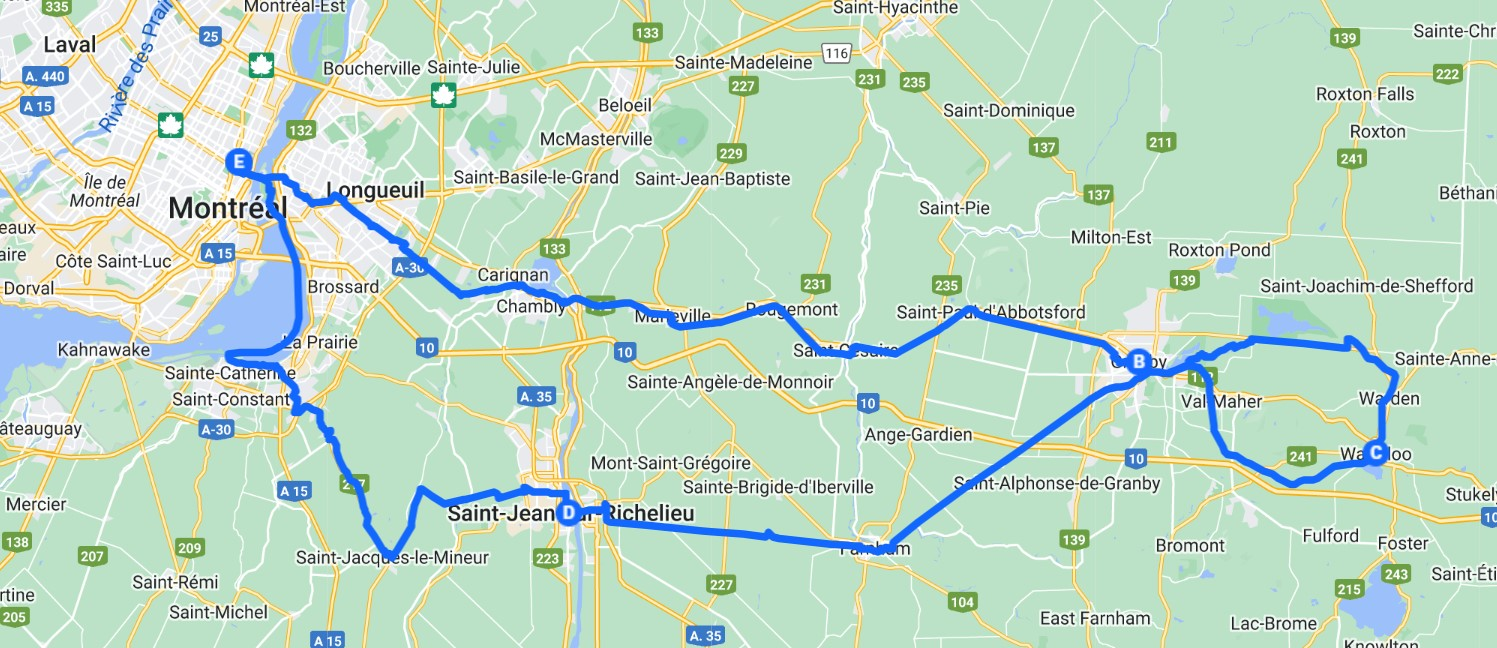
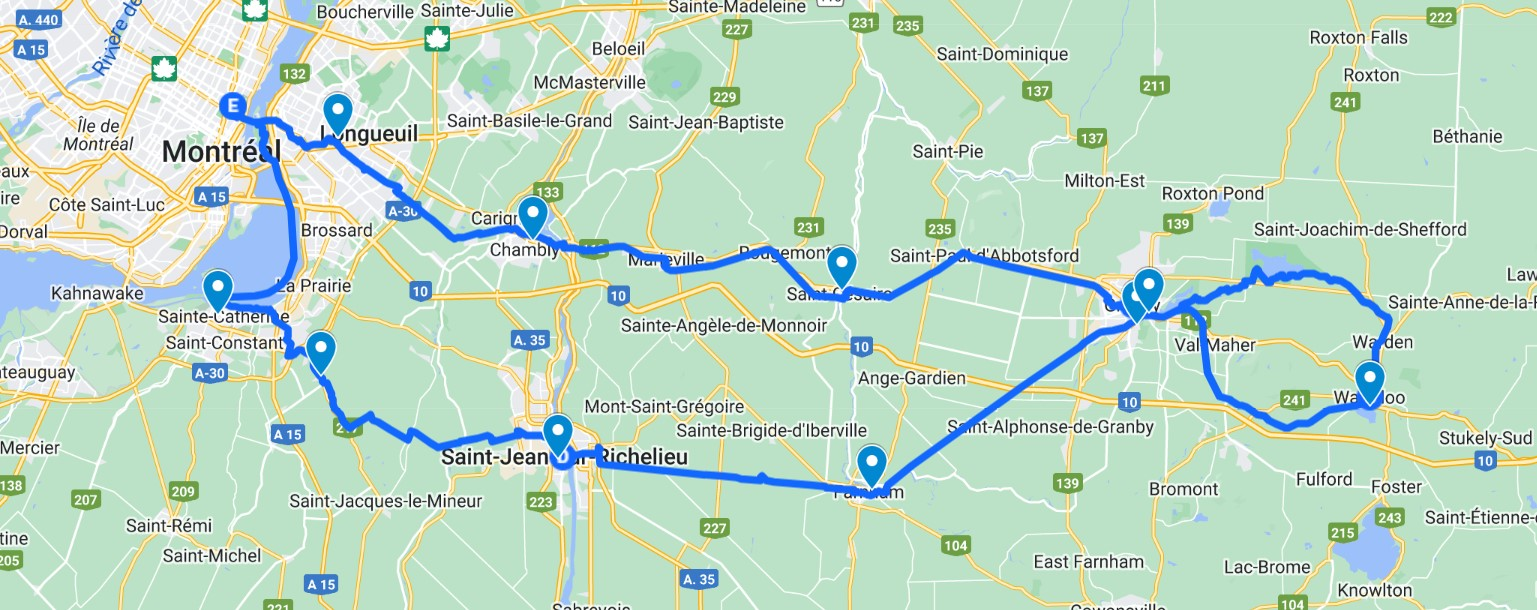
itinerary update

diff --git a/src/App.js b/src/App.js
@@ -243,7 +243,9 @@ function App() {
             <Section id="chemin">
               <SectionTitle>Itinéraire</SectionTitle>
 
-              <img src={itineraire} alt="Itineraire" class="m-auto itineraire" />
+              <a href="https://www.google.com/maps/d/u/0/edit?mid=1JQ0GqPk1kZXJiGJGs2jmEFNbp3l5BTc&ll=45.35870631813201%2C-73.02884105000001&z=9">
+                <img src={itineraire} alt="Itineraire" class="m-auto itineraire" />
+              </a>
               <p></p>
 
               <Timeline>
@@ -253,25 +255,34 @@ function App() {
                   date="Samedi 2 septembre 2023"
                   start="Montréal"
                   end="Saint-Jean-sur-Richelieu"
-                  length="66 km"
+                  length="59 km"
                 >
                   <Heure start="08h00">
                     Rassemblement à l'<Link
                     href="https://www.google.com/maps/place/%C3%89cole+primaire+Jean-Baptiste-Meilleur/@45.5316737,-73.558441,446m/data=!3m1!1e3!4m6!3m5!1s0x4cc91bbe35017fef:0xd4f00925a2a08a3e!8m2!3d45.5320839!4d-73.5579646!16s%2Fg%2F1w04jqnp?entry=ttu"
                     >École primaire Jean-Baptiste-Meilleur</Link>
                   </Heure>
-                  <Heure start="09h00">Montréal - > Sainte Catherine (24.0 km)</Heure>
-                  <Heure start="10h15">Collation (lieu à venir) </Heure>
+                  <Heure start="09h00">Montréal - > Sainte Catherine (22.0 km)</Heure>
+                  <Heure start="10h15">Collation au <Link
+                    href="https://www.google.com/maps/place/Parc+Francis-Xavier-Fontaine/@45.4057333,-73.5761976,17z/data=!3m1!4b1!4m6!3m5!1s0x4cc911add3c7f823:0x70b6ca08d31ac5c5!8m2!3d45.4057333!4d-73.5736227!16s%2Fg%2F11qpjk06s0?entry=ttu"
+                    >Parc Francis-Xavier-Fontaine</Link> 🚻 🚰
+                  </Heure>
                   <Heure start="10h45">Sainte Catherine -> Saint-Philippe (12.0 km)</Heure>
                   <Heure start="11h30">
                     Dîner au <Link
                     href="https://www.google.com/maps/place/Parc+G%C3%A9rard-Laframboise/@45.3616101,-73.4811907,595m/data=!3m2!1e3!4b1!4m6!3m5!1s0x4cc90c7658978101:0xd7496d1bcfc7af45!8m2!3d45.3616101!4d-73.4786158!16s%2Fg%2F11cp6jrx86!5m1!1e3?entry=tts&shorturl=1"
                     >Parc Gérard-Laframboise</Link> 🚻 🚰
                   </Heure>
-                  <Heure start="13h00">Saint-Philippe -> Saint-Jacques-le-Mineur (11.0 km)</Heure>
-                  <Heure start="13h35">Collation (lieu à venir) </Heure>
-                  <Heure start="14h00">Saint-Jacques-le-Mineur -> Saint-Jean-sur-Richelieu (19.0 km)</Heure>
-                  <Heure start="15h00">Arrivée à Saint-Jean-sur-Richelieu</Heure>
+                  <Heure start="13h00">Saint-Philippe -> Parc des Ancêtres (15.0 km)</Heure>
+                  <Heure start="13h45">Collation au  <Link
+                    href="https://www.google.com/maps/place/Parc+des+Anc%C3%AAtres/@45.3154939,-73.3478655,16.27z/data=!4m6!3m5!1s0x4cc9a176e072e365:0x40b5228d343700a1!8m2!3d45.3153108!4d-73.3461523!16s%2Fg%2F11nnjrxbcn?entry=ttu"
+                    >Parc des Ancêtres</Link> 🚻 
+                  </Heure>
+                  <Heure start="14h15">Parc des Ancêtres -> Saint-Jean-sur-Richelieu (10.0 km)</Heure>
+                  <Heure start="15h00">Arrivée au <Link
+                    href="https://www.google.com/maps/place/Centre-de-Plein-Air-Ronald-Beauregard/@45.2775076,-73.2778579,13.04z/data=!4m6!3m5!1s0x4cc9a2626f10812d:0x736f99afc17099f2!8m2!3d45.2883523!4d-73.251608!16s%2Fg%2F11b5wkbv7c?entry=tts&shorturl=1"
+                    >Centre-de-Plein-Air-Ronald-Beauregard</Link> 🚻 🚰
+                  </Heure>
                 </Jour>
               
                 <Jour
@@ -288,10 +299,7 @@ function App() {
                     >Parc Israël Larochelle</Link> 🚻
                   </Heure>
                   <Heure start="11h00">Farnham -> Granby (24.0 km)</Heure>
-                  <Heure start="12h20">Arrivée à Granby au <Link 
-                    href="https://www.google.com/maps/place/Parc+de+l'Estriade/@45.3965441,-72.7145278,18z/data=!4m6!3m5!1s0x4cc9d0f45903dc17:0x4af0c141e83d5785!8m2!3d45.3963598!4d-72.7137732!16s%2Fg%2F11b7ld46q6?entry=ttu"
-                    >Parc de l'Estriade</Link> 🚻 🚰
-                  </Heure>
+                  <Heure start="12h20">Arrivée à Granby</Heure>
                   <Heure start="13h20">Boucle optionnelle: Granby -> Waterloo -> Granby (48.0 km)</Heure>
                   <Heure start="15h00">Boucle optionnelle: Halte au <Link 
                     href="https://www.google.com/maps/place/Park+Caboose/@45.3379842,-72.5363076,17.09z/data=!4m6!3m5!1s0x4cc9d7e81849a8a9:0x348d78fea5bb1a86!8m2!3d45.3379545!4d-72.5336004!16s%2Fg%2F11c1qs2ndk?entry=tts&shorturl=1"
